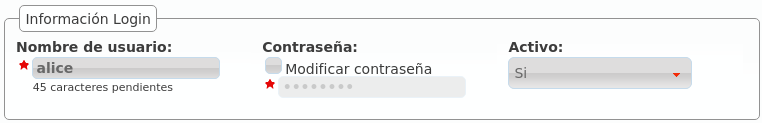
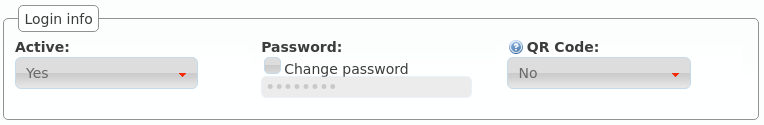
doc: Call waiting is call limit now
And Users section is fully reviewed. Fixes #251

diff --git a/doc/sphinx/pbx_features/users.rst b/doc/sphinx/pbx_features/users.rst
@@ -7,11 +7,8 @@ Users configuration
 The installation process creates *Alice* and *Bob* users, allowing us
 to test internals calls between them without too much effort.
 
-We also skipped most of the setting in **Users** configuration that we will 
-define in this section.
-
-As usually, the best way is to edit an existing user and describe each of its 
-fields:
+We skipped most of the settings in **Users** configuration that we will described
+in this section.
 
 *************
 Personal data
@@ -32,6 +29,17 @@ Personal data
         Email used to send the user's received voicemails. This is also used to 
         identify the user in their portal.
 
+    Country code / Area code
+        Defines the way the user calls and the way the numbers are presented to 
+        this user.
+
+    Language
+        When a locution is played to this user, this language is used.
+
+    Timezone
+        User portal call list times will use this timezone.
+
+
 **********
 Login Info
 **********
@@ -47,6 +55,10 @@ Login Info
     Password
         Password used to access the :ref:`user's portal <userportal>`.
 
+    QR Code
+        If enabled, a QR code for Grandstream Wave softphone configuration 
+        will be shown.
+
 *******************
 Basic Configuration
 *******************
@@ -59,7 +71,7 @@ Basic Configuration
         The available terminals created in :ref:`terminals` are listed here 
         for assignment.
 
-    Extension
+    Screen Extension
         One of the available :ref:`extensions` that this user will display when 
         placing internal calls. While multiple extensions can be routed to the 
         user, only one of them will be presented when the user calls. 
@@ -67,6 +79,10 @@ Basic Configuration
     Outgoing DDI
         As described in :ref:`external_ddi`, determines the number that will 
         present when placing external outgoing calls. 
+
+    Outgoing DDI Rules
+        Manages exceptions to previous setting. Read :ref:`outgoingddi_rules` 
+        for further reference.
 
     Call ACL
         One of the created :ref:`Call ACL <call_permissions>` groups, described 
@@ -76,13 +92,22 @@ Basic Configuration
         When this setting is enabled, the user won't receive any call but can 
         still place calls.
 
-    Call waiting
-        When this setting is enabled, the user terminal will receive new calls 
-        even if it already talking.
+    Max Calls
+        Limits the number of received calls if the user is handling 
+        simultaneously (inbound and outbound) more than the number set. 
+        Set 0 for unlimited calls.
+
+    Calls from non-granted IPs:
+        Enable calling from non-granted IP addresses for this user. 
+        It limits the number of outgoing calls to avoid toll-fraud. 
+        'None' value makes outgoing calls unlimited as long as company IP 
+        policy is fulfilled. Read :ref:`roadwarrior_users` for further reference.
 
 *********
 Voicemail
 *********
+
+.. image:: img/users_voicemail.png
 
 .. glossary::
 
@@ -191,7 +216,7 @@ These are the fields and available values:
               against IvozProvider.
 
     Target type
-        What route will use the forwaded call.
+        What route will use the forwarded call.
             - VoiceMail
             - Number (external)
             - Extension (internal)

diff --git a/doc/sphinx/pbx_features/external_filters.rst b/doc/sphinx/pbx_features/external_filters.rst
@@ -96,7 +96,7 @@ The company admin can configure them in the following screen:
         no locution** for that day.
 
     Holiday forward type
-        After playing the above locution (if configured), call can be forwaded
+        After playing the above locution (if configured), call can be forwarded
         to a voicemail, external number or internal extension. For example, the
         filter of the image will redirect calls during holidays to the external
         number 676 676 676.

diff --git a/doc/sphinx/security/index.rst b/doc/sphinx/security/index.rst
@@ -72,6 +72,8 @@ Both IP addresses or ranges can be used, in CIDR format (IP/mask):
 .. important:: This mechanism limits the origin of the users of a company, it 
    doesn't filter origin from **Contract Peerings**.
 
+.. _roadwarrior_users:
+
 Roadwarrior users
 -----------------
 
